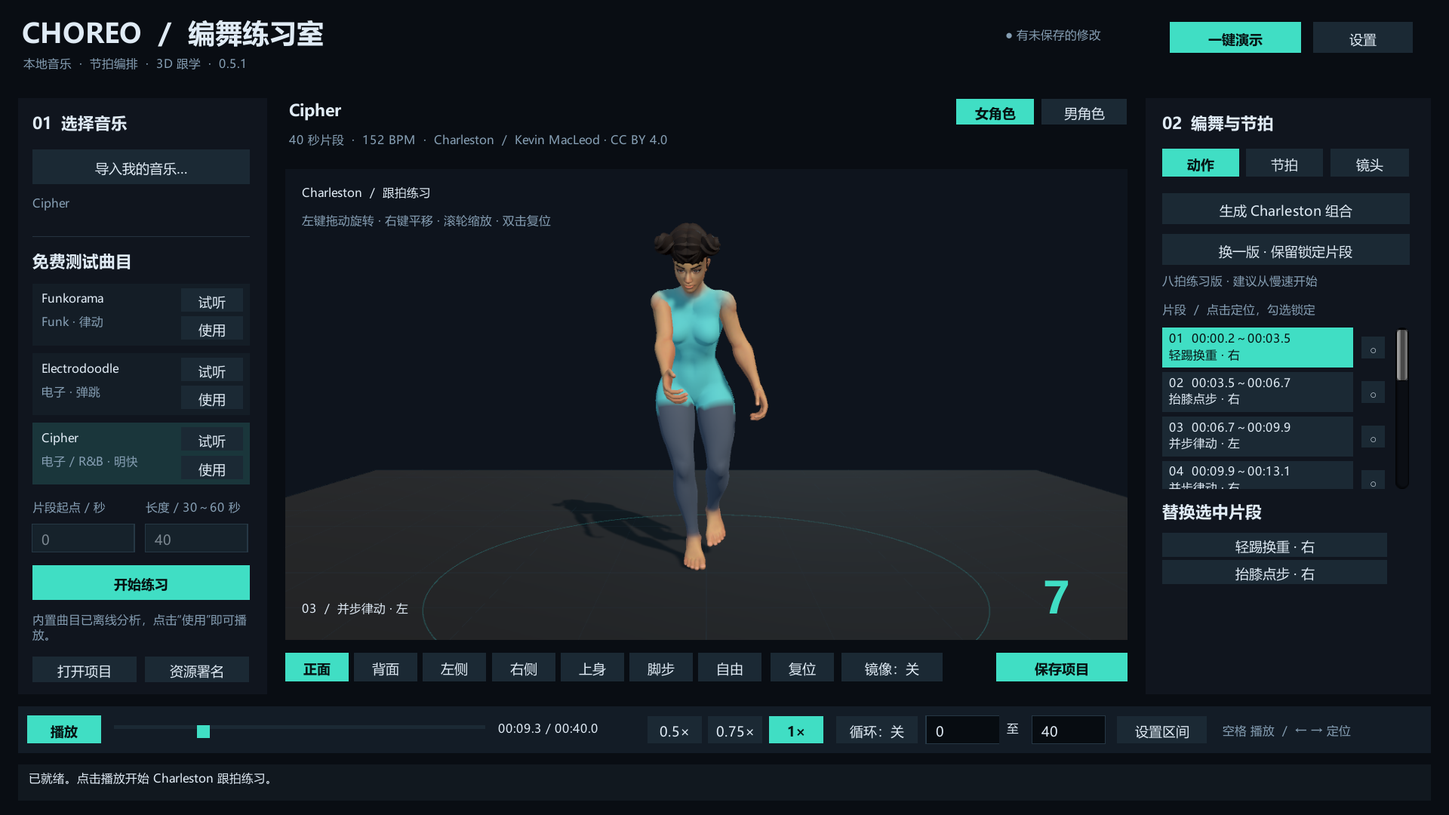
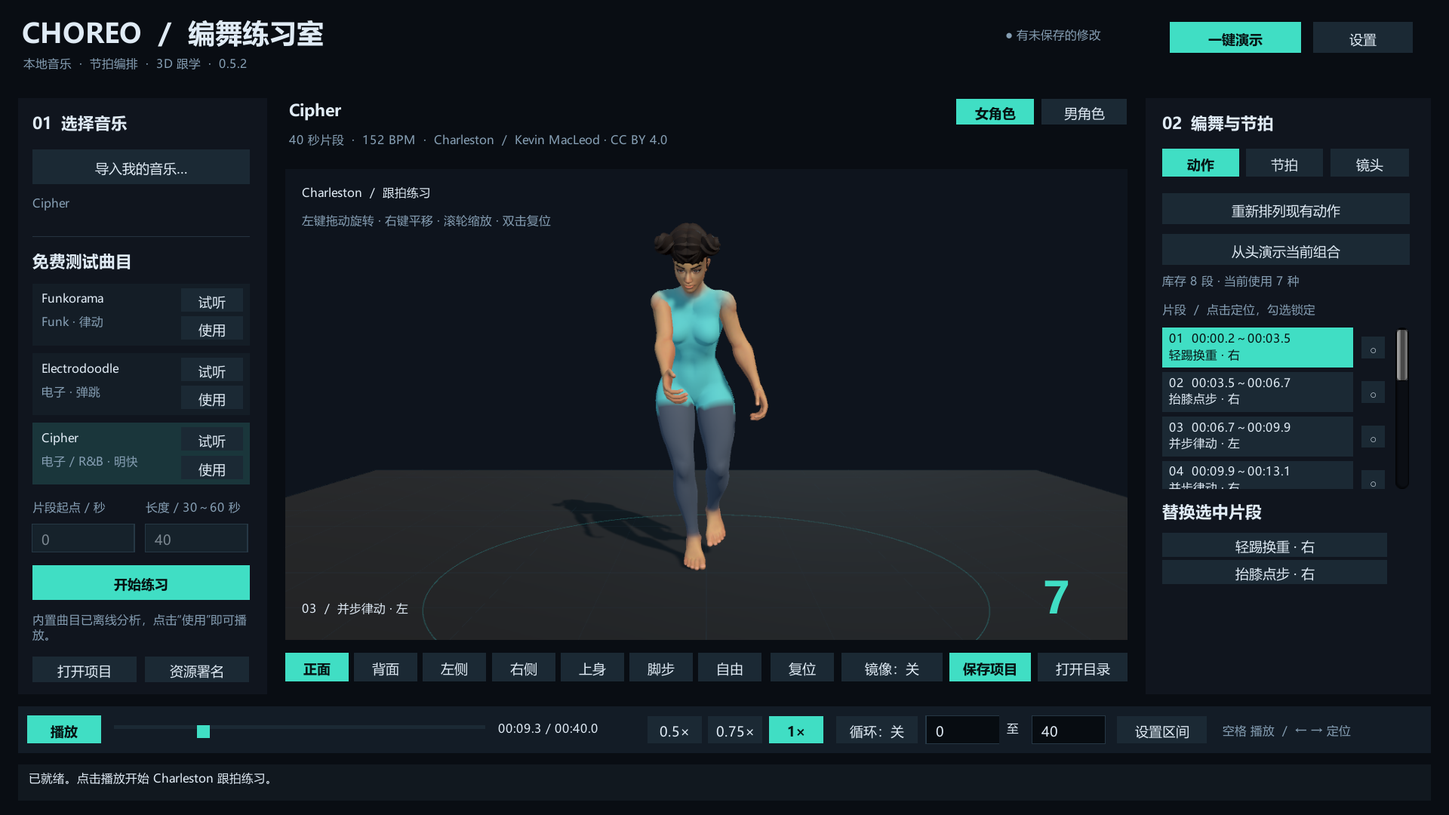
Make rearrangement change sequences and expose saved project locations

Changed region(s): [[0.6562, 0.7944, 0.7812, 0.8556], [0.8125, 0.3056, 0.9375, 0.3667], [0.8438, 0.2444, 0.9375, 0.275]]

diff --git a/Assets/SongChoreography/Runtime/StudioApp.cs b/Assets/SongChoreography/Runtime/StudioApp.cs
@@ -47,6 +47,7 @@ namespace SongChoreography
         bool TestMode=>Environment.GetCommandLineArgs().Any(a=>a=="-smoke"||a=="-import-smoke"||a=="-portable-smoke"||a=="-library-smoke"||a=="-acceptance"||a=="-mocap-preview"||a=="-transition-review"||a=="-product-acceptance"||a=="-state-acceptance");
         string PreferredStyle=>Choreographer.Eligible(catalog,DanceStyles.NewJazz).Count>=8?DanceStyles.NewJazz:Choreographer.Eligible(catalog,DanceStyles.Charleston).Count>=8?DanceStyles.Charleston:DanceStyles.Diagnostic;
         string Workspace=>Path.Combine(Application.persistentDataPath,"Projects");
+        string ProjectPickerDirectory=>ProjectLocations.BrowseDirectory(projectFolder,PlayerPrefs.GetString("LastProject",""),Workspace);
         string AppDirectory=>Path.GetDirectoryName(Application.dataPath);
         string AnalyzerPython=>AnalyzerRuntime.Resolve(AppDirectory,pythonPath,Environment.GetEnvironmentVariable("SONG_CHOREO_PYTHON"));
         bool BundledAnalyzer=>string.Equals(AnalyzerPython,AnalyzerRuntime.BundledPath(AppDirectory),StringComparison.OrdinalIgnoreCase);
@@ -305,7 +306,7 @@ namespace SongChoreography
             File.WriteAllText(temp,JsonUtility.ToJson(project,true));
             if(File.Exists(path))File.Replace(temp,path,null);else File.Move(temp,path);
             if(!TestMode)PlayerPrefs.SetString("LastProject",path);
-            dirty=false;message="编舞已保存到本地，可通过“打开项目”继续练习。";
+            dirty=false;message="已保存："+Path.GetFullPath(path)+"  （点击“打开目录”查看）";
         }
         void OpenDemo()
         {
@@ -330,9 +331,18 @@ namespace SongChoreography
             if(!Ready)return;
             if(!int.TryParse(seedText,out var seed))throw new ArgumentException("种子应为整数。");
             if(project.mode!=mode && project.segments.Any(s=>s.locked))throw new InvalidOperationException("切换舞种前请先解除所有锁定。");
-            var oldMode=project.mode;var oldSeed=project.seed;project.mode=mode;project.seed=changeSeed?unchecked(seed+1):seed;
-            try{project.segments=Choreographer.Generate(project,catalog);}catch{project.mode=oldMode;project.seed=oldSeed;throw;}
-            seedText=project.seed.ToString();selected=0;dirty=true;message=mode=="diagnostic"?"技术演示序列已生成（非 New Jazz）。":DanceStyles.Name(mode)+" 编舞已生成。";
+            var oldMode=project.mode;var oldSeed=project.seed;var previous=project.segments;project.mode=mode;project.seed=seed;
+            try
+            {
+                if(changeSeed){project.segments=Choreographer.GenerateAnother(project,catalog,out int chosenSeed);project.seed=chosenSeed;}
+                else project.segments=Choreographer.Generate(project,catalog);
+            }
+            catch{project.mode=oldMode;project.seed=oldSeed;throw;}
+            int changed=project.segments.Where((s,i)=>i>=previous.Count||s.motionId!=previous[i].motionId).Count();
+            seedText=project.seed.ToString();selected=0;
+            for(int i=0;i<project.segments.Count;i++)if(i>=previous.Count||project.segments[i].motionId!=previous[i].motionId){selected=i;break;}
+            if(!playback.IsPlaying)playback.Seek(project.segments[selected].startSeconds);
+            dirty=true;message=$"已重新编排：{project.segments.Count} 段中 {changed} 段改变，使用 {project.segments.Select(s=>s.motionId).Distinct().Count()}/{Choreographer.Eligible(catalog,mode).Count} 个库存片段；锁定片段保持。";
         }
         void ApplyLoop()
         {
@@ -403,7 +413,7 @@ namespace SongChoreography
         {
             Text(36,124,240,28,"01  选择音乐",heading);
             GUI.enabled=!Busy;
-            if(Button(36,165,240,38,"导入我的音乐…"))Guard(()=>{var p=NativeFiles.Open(false);if(p!=null){sourcePath=p;selectedSourceName=Path.GetFileNameWithoutExtension(p);chosenTrack=-1;}});
+            if(Button(36,165,240,38,"导入我的音乐…"))Guard(()=>{var p=NativeFiles.Open(false);if(p!=null){sourcePath=p;selectedSourceName=Path.GetFileNameWithoutExtension(p);chosenTrack=-1;message="已选择《"+selectedSourceName+"》。设置片段后，点击左侧“分析并打开”。";}});
             Text(36,216,240,35,string.IsNullOrEmpty(sourcePath)?"支持 WAV / MP3，音频保存在本机。":selectedSourceName,muted);
             Box(new Rect(36,261,240,1),new Color(.15f,.20f,.25f));Text(36,277,240,25,"免费测试曲目",heading);
             for(int i=0;i<musicLibrary.tracks.Count;i++)
@@ -431,9 +441,9 @@ namespace SongChoreography
                 Text(36,673,170,35,job.Progress.message,muted);Box(new Rect(36,709,240,3),new Color(.12f,.2f,.24f));Box(new Rect(36,709,240*job.Progress.progress,3),teal);
                 if(Button(213,674,63,27,"取消"))Guard(()=>{job.Cancel();job.Dispose();job=null;message="分析已取消，当前项目保持不变。";});
             }
-            else Text(36,676,240,31,"内置曲目已离线分析，点击“使用”即可播放。",muted);
+            else Text(36,676,240,31,chosenTrack>=0?"内置曲目已离线分析，点击“使用”即可播放。":Ready&&project.title==selectedSourceName?"当前歌曲已载入，点击底部“播放”开始练习。":"设置片段后点“分析并打开”，完成后点底部“播放”。",muted);
             GUI.enabled=!Busy;
-            if(Button(36,725,115,28,"打开项目"))Guard(()=>OpenProject(NativeFiles.Open(true)));
+            if(Button(36,725,115,28,"打开项目"))Guard(()=>OpenProject(NativeFiles.Open(true,ProjectPickerDirectory)));
             if(Button(160,725,115,28,"资源署名"))showCredits=true;
             GUI.enabled=true;
         }
@@ -468,7 +478,8 @@ namespace SongChoreography
             if(Button(851,721,70,32,"复位"))ResetCamera();
             GUI.enabled=Ready;
             if(Button(929,721,112,32,Ready&&project.mirror?"镜像：开":"镜像：关")){project.mirror=!project.mirror;dirty=true;}
-            if(Button(1100,721,145,32,"保存项目",true))Guard(Save);
+            if(Button(1048,721,90,32,"保存项目",true))Guard(Save);
+            if(Button(1146,721,99,32,"打开目录"))Guard(()=>Application.OpenURL(new Uri(projectFolder).AbsoluteUri));
             GUI.enabled=true;
         }
         void DrawInspector()
@@ -496,11 +507,10 @@ namespace SongChoreography
                 Text(1283,510,273,150,"自动检测不能保证乐句和八拍起点正确，请试听后校正。\n\n计数设为 4 时，首段从动作第 4 拍开始，跳完 4～8 后进入下一组八拍。\n\n更改前请解除受影响的锁定。",muted);
                 GUI.enabled=true;return;
             }
-            if(Button(1283,213,273,34,PreferredStyle==DanceStyles.Diagnostic?"生成演示组合":"生成 "+DanceStyles.Name(PreferredStyle)+" 组合"))Guard(()=>Generate(PreferredStyle,false));
-            if(Button(1283,258,273,34,"换一版 · 保留锁定片段"))Guard(()=>Generate(project.mode,true));
-            int eligible=catalog==null?0:Choreographer.Eligible(catalog,"new-jazz").Count;
-            if(eligible>=8)Text(1283,302,273,24,"New Jazz 八拍练习 · 建议从慢速开始",muted);
-            else Text(1283,302,273,24,project.mode==DanceStyles.Charleston?"八拍练习版 · 建议从慢速开始":"New Jazz 尚未开放 · 缺少已审核动作",muted);
+            if(Button(1283,213,273,34,"重新排列现有动作"))Guard(()=>Generate(PreferredStyle,true));
+            if(Button(1283,258,273,34,"从头演示当前组合"))Guard(()=>{playback.Seek(project.segments[0].startSeconds);playback.Play();});
+            int eligible=catalog==null?0:Choreographer.Eligible(catalog,Ready?project.mode:PreferredStyle).Count;
+            Text(1283,302,273,24,$"库存 {eligible} 段 · 当前使用 {(Ready?project.segments.Select(s=>s.motionId).Distinct().Count():0)} 种",muted);
             GUI.enabled=Ready&&!Busy;
             Text(1283,333,273,22,"片段  /  点击定位，勾选锁定",muted);
             int count=Ready?project.segments.Count:0;

diff --git a/Tests/CoreTests.cs b/Tests/CoreTests.cs
@@ -84,6 +84,40 @@ static class Tests
         local.motions[0].sourceNext="personal-fixture";
         Check(PersonalMotionPolicy.Merge(shared,local).motions.Last().sourceNext=="personal-fixture","reviewed source-contiguous connection accepted");
         shared.motions[0].id="personal-fixture";Throws(()=>PersonalMotionPolicy.Merge(shared,local),"personal motion cannot shadow an existing ID");
+        p=Project();c=Catalog();p.segments=Choreographer.Generate(p,c);var initial=p.segments.Select(s=>s.motionId).ToArray();int savedSeed=p.seed;
+        var another=Choreographer.GenerateAnother(p,c,out int usedSeed);
+        Check(!initial.SequenceEqual(another.Select(s=>s.motionId))&&p.seed==savedSeed,"another arrangement changes actual motion IDs without mutating input seed");
+        p.seed=usedSeed;Check(another.Select(s=>s.motionId).SequenceEqual(Choreographer.Generate(p,c).Select(s=>s.motionId)),"chosen variation seed reproduces the exact new arrangement");
+        p.segments[2].locked=true;string lockId=p.segments[2].motionId;
+        another=Choreographer.GenerateAnother(p,c,out usedSeed);Check(another[2].locked&&another[2].motionId==lockId&&another.Select(s=>(s.startSeconds,s.endSeconds,s.beatCount)).SequenceEqual(p.segments.Select(s=>(s.startSeconds,s.endSeconds,s.beatCount))),"another arrangement preserves locks and every time slot");
+        p.segments.ForEach(s=>s.locked=true);savedSeed=p.seed;var savedIds=p.segments.Select(s=>s.motionId).ToArray();
+        Throws(()=>Choreographer.GenerateAnother(p,c,out _),"all-locked regeneration reports why it cannot change");
+        Check(p.seed==savedSeed&&savedIds.SequenceEqual(p.segments.Select(s=>s.motionId)),"failed variation preserves the complete original sequence and seed");
+        p=Project();c=Catalog();for(int i=0;i<8;i++)c.motions[i].safeNext=new List<string>{"m"+((i+1)%8)};
+        p.segments=Choreographer.Generate(p,c);p.segments[0].locked=true;
+        Throws(()=>Choreographer.GenerateAnother(p,c,out _),"a single feasible reviewed path cannot falsely report a new arrangement");
+        foreach(string catalogPath in new[]{"Assets/Resources/MotionCatalog.json","Assets/Resources/PersonalMotionCatalog.json"})
+        {
+            if(!File.Exists(catalogPath))continue;
+            c=JsonSerializer.Deserialize<MotionCatalog>(File.ReadAllText(catalogPath),options);p=Project();p.mode=c.personalUseOnly?DanceStyles.NewJazz:DanceStyles.Charleston;p.segments=Choreographer.Generate(p,c);
+            int minimumChanges=int.MaxValue;var seen=new HashSet<string>();
+            for(int version=0;version<8;version++)
+            {
+                var before=p.segments.Select(s=>s.motionId).ToArray();another=Choreographer.GenerateAnother(p,c,out usedSeed);p.seed=usedSeed;p.segments=another;Choreographer.ValidateProject(p,c);
+                minimumChanges=Math.Min(minimumChanges,another.Where((s,i)=>s.motionId!=before[i]).Count());seen.Add(string.Join(",",another.Select(s=>s.motionId)));
+            }
+            Check(minimumChanges>0&&seen.Count>=4,"actual "+p.mode+" library changes on every click and offers multiple reviewed arrangements");
+            Console.WriteLine("VARIETY "+p.mode+" minimum changed slots="+minimumChanges+", distinct arrangements="+seen.Count);
+        }
+        string browserRoot=Path.Combine(Path.GetTempPath(),"choreo-browser-"+Guid.NewGuid().ToString("N")),currentFolder=Path.Combine(browserRoot,"current"),lastFolder=Path.Combine(browserRoot,"last"),workspace=Path.Combine(browserRoot,"workspace");
+        Directory.CreateDirectory(currentFolder);Directory.CreateDirectory(lastFolder);Directory.CreateDirectory(workspace);string lastFile=Path.Combine(lastFolder,"project.danceproj");File.WriteAllText(lastFile,"{}");
+        try
+        {
+            Check(ProjectLocations.BrowseDirectory(currentFolder,lastFile,workspace)==currentFolder,"project browser prioritizes the active saved project directory");
+            Check(ProjectLocations.BrowseDirectory(null,lastFile,workspace)==lastFolder,"project browser restores the last saved directory on restart");
+            Check(ProjectLocations.BrowseDirectory(null,Path.Combine(lastFolder,"missing"),workspace)==workspace,"project browser falls back to the project workspace for missing last files");
+        }
+        finally{File.Delete(lastFile);Directory.Delete(currentFolder);Directory.Delete(lastFolder);Directory.Delete(workspace);Directory.Delete(browserRoot);}
         Console.WriteLine($"{passed} core checks passed.");
     }
 }

diff --git a/Scripts/prepare-public-release-evidence.py b/Scripts/prepare-public-release-evidence.py
@@ -1,6 +1,9 @@
-import hashlib,html,json,shutil
+import argparse,hashlib,html,json,shutil
 from pathlib import Path
 root=Path(__file__).resolve().parents[1]
+parser=argparse.ArgumentParser(description='Export only public reviewed connection evidence.')
+parser.add_argument('--version',default='0.5.1');parser.add_argument('--build',default='Builds/PublicWindows051')
+args=parser.parse_args()
 def read(path):return json.loads((root/path).read_text(encoding='utf-8-sig'))
 evidence=root/'TestResults/AnatomyPlayback051FinalProbe'
 cases=[c for c in read('TestResults/AnatomyPlayback051FinalProbe/results.json')['cases'] if c['from'].startswith('charleston-') and c['to'].startswith('charleston-')]
@@ -12,13 +15,17 @@ assert digests(public)==digests(tested) and len(digests(public))==8
 source=Path('Assets/SongChoreography/Runtime/DancePlayback.cs')
 assert (root/source).read_bytes()==(root/'.build-cache/PersonalUnityProject'/source).read_bytes()
 assert (root/source).read_bytes()==(root/'.build-cache/UnityProject'/source).read_bytes()
-out=root/'Builds/PublicWindows051/CharlestonReview';out.mkdir(exist_ok=True)
+playback_digest=hashlib.sha256((root/source).read_bytes()).hexdigest()
+if args.version!='0.5.1':
+    baseline=read('Release/ChoreoStudio-0.5.1-Windows/说明与验收/CharlestonReview/results.json')
+    assert baseline['clipDigests']==digests(public) and baseline['playbackSourceSha256']==playback_digest,'Playback or animation changed; new review required.'
+out=root/args.build/'CharlestonReview';out.mkdir(exist_ok=True)
 parts=['<!doctype html><meta charset="utf-8"><title>0.5.1 Charleston playback review</title><style>body{font:16px system-ui;background:#101923;color:#e5edf3;margin:32px}img{max-width:100%;margin-bottom:32px}h2{font-size:18px}</style><h1>0.5.1 Charleston：20 条连接 × 两个角色</h1><p>实际 DancePlayback 采样、混合和接地；120 Hz 检查全部通过。以下为逐连接六帧渲染板，非前台点击截图。已核对公共构建的 8 个动作摘要及播放器源码与受测版本一致。</p>']
 for c in cases:
     assert Path(c['board']).name==c['board'] and 'personal-' not in c['board']
     shutil.copyfile(evidence/c['board'],out/c['board'])
     parts.append('<h2>'+html.escape(c['character']+' / '+c['from']+' → '+c['to'])+'</h2><img src="'+html.escape(c['board'])+'">')
-report=dict(schemaVersion=1,version='0.5.1',scope='Public Charleston cases only. Rendered through shipped DancePlayback in the isolated editor; not a foreground click test.',playbackSourceSha256=hashlib.sha256((root/source).read_bytes()).hexdigest(),clipDigests=digests(public),cases=cases)
+report=dict(schemaVersion=1,version=args.version,poseReviewVersion='0.5.1',scope='Public Charleston cases only. Rendered through shipped DancePlayback in the isolated editor; not a foreground click test. Playback code and all eight clip digests match the reviewed revision.',playbackSourceSha256=playback_digest,clipDigests=digests(public),cases=cases)
 (out/'results.json').write_text(json.dumps(report,indent=2)+'\n',encoding='utf-8')
 (out/'report.html').write_text('\n'.join(parts),encoding='utf-8')
 print('Prepared public-only connection evidence: 40 cases; public and tested clip digests match.')

diff --git a/Assets/SongChoreography/Core/Choreographer.cs b/Assets/SongChoreography/Core/Choreographer.cs
@@ -94,6 +94,29 @@ namespace SongChoreography
             for(int i=n-1;i>=0;i--) { slots[i].motionId=motions[last].id;last=parent[i,last]; }
             return slots;
         }
+        public static List<DanceSegment> GenerateAnother(DanceProject project,MotionCatalog catalog,out int chosenSeed)
+        {
+            int originalSeed=project.seed;chosenSeed=originalSeed;
+            if(project.segments.Count>0&&project.segments.All(s=>s.locked))throw new InvalidOperationException("所有片段均已锁定，请先解锁需要更换的片段。");
+            List<DanceSegment> best=null;int bestChanged=0,bestUnique=-1;
+            try
+            {
+                // A new seed can still find the same optimum. Compare actual
+                // sequences and select the most changed of 32 deterministic
+                // candidates, always using the existing reviewed graph.
+                for(int attempt=1;attempt<=32;attempt++)
+                {
+                    project.seed=unchecked(originalSeed+attempt);var candidate=Generate(project,catalog);
+                    int changed=candidate.Where((s,i)=>!s.locked&&(i>=project.segments.Count||s.motionId!=project.segments[i].motionId)).Count();
+                    int unique=candidate.Select(s=>s.motionId).Distinct().Count();
+                    if(changed>bestChanged||(changed==bestChanged&&changed>0&&unique>bestUnique))
+                    {best=candidate;bestChanged=changed;bestUnique=unique;chosenSeed=project.seed;}
+                }
+            }
+            finally{project.seed=originalSeed;}
+            if(best==null)throw new InvalidOperationException("在当前锁定和已审核连接下，暂未找到不同组合。请解锁更多片段或调整音乐片段。");
+            return best;
+        }
         static double Noise(int seed,int index,string id)
         {
             unchecked { uint h=(uint)seed ^ ((uint)index*16777619u);foreach(char c in id) h=(h^c)*16777619u;return (h%10000)/10000.0; }

diff --git a/Assets/SongChoreography/Runtime/StudioProductAcceptance.cs b/Assets/SongChoreography/Runtime/StudioProductAcceptance.cs
@@ -93,6 +93,8 @@ namespace SongChoreography
             var stable=project.segments.Select(s=>s.motionId).ToArray();
             ProductCheck("Seed reproduces actual library arrangement",stable.SequenceEqual(Choreographer.Generate(project,catalog).Select(s=>s.motionId)));
             yield return PhraseAcceptance();
+            var beforeRegeneration=project.segments.Select(s=>s.motionId).ToArray();Generate(project.mode,true);
+            ProductCheck("Regenerate changes actual unlocked motion sequence",!beforeRegeneration.SequenceEqual(project.segments.Select(s=>s.motionId)),message);
             project.segments[2].locked=true;string locked=project.segments[2].motionId;Generate(project.mode,true);
             ProductCheck("Real dance regeneration keeps lock",project.segments[2].locked&&project.segments[2].motionId==locked);
             project.segments[2].locked=false;
@@ -134,6 +136,8 @@ namespace SongChoreography
             }
             project.loop=false;project.loopStart=0;project.loopEnd=40;playback.SetRate(.75f);playback.Seek(12.75);project.mirror=true;ChangeView(1);
             project.segments[1].locked=true;Save();string expected=JsonUtility.ToJson(project);string path=Path.Combine(projectFolder,"project.danceproj");
+            ProductCheck("Save feedback exposes the actual saved file",File.Exists(path)&&message.Contains(Path.GetFullPath(path)),message);
+            ProductCheck("Open project starts in the active saved directory",ProjectPickerDirectory==Path.GetFullPath(projectFolder),ProjectPickerDirectory);
             OpenProject(path);while(loading)yield return null;
             string actual=JsonUtility.ToJson(project);
             if(actual!=expected)

diff --git a/Assets/SongChoreography/Runtime/NativeFiles.cs b/Assets/SongChoreography/Runtime/NativeFiles.cs
@@ -1,4 +1,6 @@
 using System;
+using System.IO;
+using System.Diagnostics;
 using System.Runtime.InteropServices;
 
 namespace SongChoreography
@@ -27,10 +29,22 @@ namespace SongChoreography
             public int reservedWord,flagsEx;
         }
         [DllImport("comdlg32.dll",CharSet=CharSet.Unicode,SetLastError=true)]static extern bool GetOpenFileName([In,Out]OpenFileName file);
-        public static string Open(bool project)
+        public static string Open(bool project,string initialDirectory=null)
         {
 #if UNITY_STANDALONE_WIN || UNITY_EDITOR_WIN
             var f=new OpenFileName{filter=project?"编舞项目\0*.danceproj\0\0":"音乐 WAV / MP3\0*.wav;*.mp3\0\0",title=project?"打开编舞项目":"选择本地音乐"};
+            f.owner=Process.GetCurrentProcess().MainWindowHandle;
+            if(Directory.Exists(initialDirectory))
+            {
+                f.initialDir=Path.GetFullPath(initialDirectory);
+                if(project)
+                {
+                    // A full initial filename also takes precedence over the
+                    // Windows common dialog's remembered unrelated folder.
+                    string initial=Path.Combine(f.initialDir,"project.danceproj");
+                    f.file=initial+new string('\0',f.maxFile-initial.Length);
+                }
+            }
             return GetOpenFileName(f)?f.file.Split('\0')[0]:null;
 #else
             return null;

diff --git a/Assets/SongChoreography/Editor/PrototypeBuilder.cs b/Assets/SongChoreography/Editor/PrototypeBuilder.cs
@@ -45,7 +45,7 @@ public static class PrototypeBuilder
         }
         EditorBuildSettings.scenes=new[]{new EditorBuildSettingsScene(Scene,true)};
         PlayerSettings.companyName="SongChoreography";PlayerSettings.productName="Choreo Practice Studio";
-        PlayerSettings.bundleVersion="0.5.1";
+        PlayerSettings.bundleVersion="0.5.2";
         PlayerSettings.defaultScreenWidth=1600;PlayerSettings.defaultScreenHeight=900;
         PlayerSettings.fullScreenMode=FullScreenMode.Windowed;PlayerSettings.resizableWindow=true;PlayerSettings.runInBackground=true;
         PlayerSettings.SetScriptingBackend(BuildTargetGroup.Standalone,ScriptingImplementation.Mono2x);

diff --git a/Assets/SongChoreography/Core/ProjectLocations.cs b/Assets/SongChoreography/Core/ProjectLocations.cs
@@ -1,0 +1,16 @@
+using System;
+using System.IO;
+
+namespace SongChoreography
+{
+    public static class ProjectLocations
+    {
+        public static string BrowseDirectory(string currentFolder,string lastProject,string workspace)
+        {
+            if(Directory.Exists(currentFolder))return Path.GetFullPath(currentFolder);
+            if(File.Exists(lastProject))return Path.GetDirectoryName(Path.GetFullPath(lastProject));
+            if(Directory.Exists(workspace))return Path.GetFullPath(workspace);
+            return Environment.GetFolderPath(Environment.SpecialFolder.MyDocuments);
+        }
+    }
+}

diff --git a/Docs/PERSONAL_LEARNING.md b/Docs/PERSONAL_LEARNING.md
@@ -4,7 +4,7 @@
 
 ## 使用已准备的个人版
 
-双击 `Builds/PersonalWindows-0.5.1/ChoreoStudio.exe`，点击“一键演示”，或点击内置曲目的“使用”，即可观看 New Jazz 八拍练习组合。初学建议选择 0.5×／0.75×，使用背面或镜像跟学；舞台下方提供正面、背面、左右侧、上身、脚步和自由镜头，右侧“镜头”页可调整视角与构图。鼠标拖动旋转、右键平移、滚轮缩放、双击复位。
+双击 `Builds/PersonalWindows-0.5.2/ChoreoStudio.exe`，点击“一键演示”，或点击内置曲目的“使用”，即可观看 New Jazz 八拍练习组合。初学建议选择 0.5×／0.75×，使用背面或镜像跟学；舞台下方提供正面、背面、左右侧、上身、脚步和自由镜头，右侧“镜头”页可调整视角与构图。鼠标拖动旋转、右键平移、滚轮缩放、双击复位。
 
 也可从仓库运行 `.\Scripts\run.ps1 -PersonalLearning -Demo`，直接载入暂停的练习组合。如果启动时恢复了旧 Charleston 项目，点击“一键演示”即可载入个人 New Jazz 组合；原项目仍保存在本机。
 
@@ -39,7 +39,7 @@
 .\Scripts\build.ps1 -Isolated -PersonalLearning
 ```
 
-输出在 `Builds/PersonalWindows-0.5.1`，包含便携分析引擎。源码中的技术复查清单只保存本项目编写的摘要、名称与连接批准记录，不含动作数组或复查画面。精确匹配已复查数据和烘焙结果时可继承该记录；其他候选最初均未批准，不能出现在普通 New Jazz 生成入口，需完成逐动作及连接复查，并保存本地 `reviewed.json`。更换数据、裁剪或重定向后旧批准会失效，失败的重新烘焙也会清除旧批准状态。
+输出在 `Builds/PersonalWindows-0.5.2`，包含便携分析引擎。源码中的技术复查清单只保存本项目编写的摘要、名称与连接批准记录，不含动作数组或复查画面。精确匹配已复查数据和烘焙结果时可继承该记录；其他候选最初均未批准，不能出现在普通 New Jazz 生成入口，需完成逐动作及连接复查，并保存本地 `reviewed.json`。更换数据、裁剪或重定向后旧批准会失效，失败的重新烘焙也会清除旧批准状态。
 
 动作数据不会在应用运行时导入。当前角色专用关节轨道只针对已验证的两个内置角色，两者虽共用骨骼名称，但局部轴不同，必须分别烘焙，不能交叉应用。更换角色须重新适配和验收。公共 Charleston 动作继续使用 Humanoid Playables。个人轨道使用同一 DSP 歌曲时钟，通过四元数插值和实际脚底接地播放；原本连续的片段保留源运动，其他连接只使用复查通过的过渡。
 
@@ -49,7 +49,7 @@
 dotnet run --project Tests/CoreTests.csproj -p:UseSharedCompilation=false
 .\Runtime\Python\python.exe -I -m unittest discover -s Tests -p 'test_*.py' -v
 .\Runtime\Python\python.exe -I Scripts\verify-distribution.py --git-index
-.\Runtime\Python\python.exe -I Scripts\verify-distribution.py --build Builds\PersonalWindows-0.5.1 --personal
+.\Runtime\Python\python.exe -I Scripts\verify-distribution.py --build Builds\PersonalWindows-0.5.2 --personal
 
 # 此构建会排除个人数据，单独生成公共版本。
 .\Scripts\build.ps1 -Isolated -OutputDirectory Builds\PublicWindows

diff --git a/Docs/WINDOWS_052_RELEASE.md b/Docs/WINDOWS_052_RELEASE.md
@@ -1,0 +1,15 @@
+# 0.5.2：重新排列现有动作
+
+0.5.1 的“生成组合”使用固定种子，重复点击会得到完全相同的动作顺序。“换一版”即使改变种子，也可能选到相同结果。0.5.2 将主按钮改为“重新排列现有动作”：比较 32 个确定性候选，优先选择改变片段最多的结果，同等变化量时选择使用种类更多的结果；只采用已审核连接。
+
+界面显示动作库存段数、当前使用种数，完成后显示实际改变的片段数。暂停时会定位到第一个发生变化的片段，便于观察；播放时保持歌曲时钟。“从头演示当前组合”用于从头播放，不会再与重排混淆。锁定和每个时间槽保持不变；全部锁定或找不到不同组合时给出原因，保留原编排和种子。
+
+当前本机 New Jazz 模式仍为同一段 Street / Jazz 动捕选出的 8 个八拍，总长约 33 秒。公共版为 8 个 Charleston 片段（4 个裁剪加 4 个镜像变体）。重排只改变现有动作的选择和顺序，没有新增动作素材，也没有接入生成式 AI。
+
+“保存项目”会自动创建 `project.danceproj`，记录音乐片段、节拍、动作顺序、锁定、角色和镜头。保存后底部显示完整文件路径，保存按钮旁提供“打开目录”。“打开项目”默认定位当前项目目录；未打开项目时使用上次保存的目录，再回退到项目库。备份或移动时复制整个文件夹。
+
+导入自己的歌曲后会明确提示“分析并打开”；完成后提示从底部“播放”开始。内置音乐的提示只在选择内置曲目时显示，避免导入后仍让人误以为在操作免费曲目。
+
+核心回归覆盖真实两库连续 8 次重新编排、保存种子复现、锁定和时间槽保持、全部锁定、只有唯一安全路径以及失败后原状态恢复。实际应用验收新增直接调用按钮同一处理函数、比较动作 ID 必须改变的检查。结果见 [REARRANGEMENT_052_RESULTS.json](REARRANGEMENT_052_RESULTS.json)。
+
+Windows ZIP 包含 `ChoreoStudio.exe`、离线 Python 和所有依赖，完整解压后运行。公开包不含私人 New Jazz 素材；个人学习版留在本机。关节修复沿用 0.5.1，构建重新执行单片段检查；连接复查的播放器源码与 8 个公共动作摘要必须与 0.5.1 相同才能复用其渲染证据。完整应用、镜头和便携检查使用当前 0.5.2 程序重新执行。

diff --git a/Docs/QUICK_START.md b/Docs/QUICK_START.md
@@ -7,9 +7,9 @@
 5. 画面下方切换正面、背面、左右侧、上身、脚步和自由镜头。左键旋转，右键／中键平移，滚轮缩放，双击复位。“镜头”页可直接设置视野、距离、角度和平移，也能改为左键平移。
 6. “镜像”翻转画面，上方切换男女角色；音乐位置保持。
 7. “节拍”页校正 BPM、首拍相对片段的秒数、首拍对应的八拍计数。计数设为 4 时，首段从动作第 4 拍开始，跳完 4～8 后进入下一组八拍；调整会真正改变分组，受影响的锁定需先解除。首拍范围 0～3 秒，长前奏请调整截取起点。自动检测不等于乐句识别，请试听后校正。旧项目按原编排恢复，重新生成后采用新分组规则。
-8. 点击右侧片段定位，旁边圆圈用于锁定。下方替换动作满足前后连接约束；需先解锁才能替换。“换一版”保留锁定片段。
+8. 点击右侧片段定位，旁边圆圈用于锁定。下方替换动作满足前后连接约束；需先解锁才能替换。“重新排列现有动作”保留锁定片段，并显示实际改变数量；它不增加动作库存。
 9. 底部填写循环起终点并点击“设置区间”，从起点反复练习。
-10. 点击“保存项目”；退出也会保存有效项目，下次启动暂停恢复。“打开项目”选择 `project.danceproj`。备份或移动时复制整个项目目录。
+10. 点击“保存项目”，底部会显示完整保存路径，旁边“打开目录”可直接查看；退出也会保存有效项目，下次启动暂停恢复。“打开项目”会默认定位当前／上次项目目录，再选择 `project.danceproj`。备份或移动时复制整个项目目录。
 
 ## 常见情况
 
